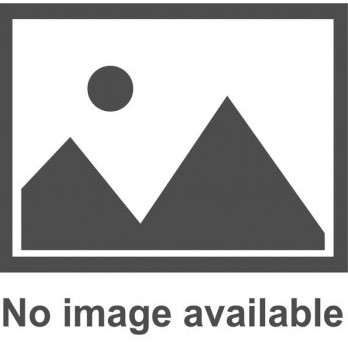
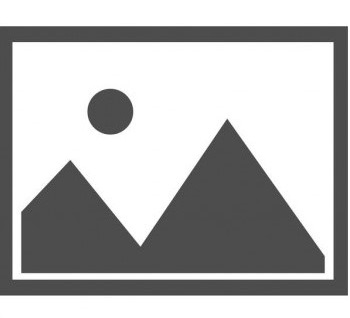
whitespace slettet + rettet i styling af billeder

diff --git a/public/admin-views/frontpage/frontpage.js b/public/admin-views/frontpage/frontpage.js
@@ -34,17 +34,8 @@ function createJewelryView(jewelry){
     ${escapeHTML(jewelry.image_path) 
         ? `<img class="image" alt="${escapeHTML(jewelry.name)}" src="/assets/images/jewelry/${escapeHTML(jewelry.image_path)}">`
         : `<img class="image" alt="default_jewelry_image" src="/assets/images/default_jewelry.jpg">`
-
-    
-    
-    
     }
 
-        
-
-    
-    
-    
     <p class="name">${escapeHTML(jewelry.name)}</p>
     <p class="price"> ${escapeHTML(jewelry.price.toString(10))} dkk</p>
     <p class="stock"> ${escapeHTML(jewelry.stock.toString(10))}</p>
@@ -55,27 +46,6 @@ function createJewelryView(jewelry){
     `;
 
     jewelryWrapper.appendChild(jewelryDiv);
-
 }
 
-
-/*
-function createJewelryView(jewelry){
-    console.log(jewelry);
-
-    const jewelryDiv = document.createElement('div');
-    jewelryDiv.classList.add("col-xs-6", "col-sm-4", "jewelry-col");
-
-    jewelryDiv.innerHTML = `
-    <a class="jewelry-link" href="admin/jewelry/${escapeHTML(jewelry.id.toString(10))}">
-        <img class="jewelry-image" alt="${escapeHTML(jewelry.name)}" src="/assets/images/jewelry/${escapeHTML(jewelry.image_path)}">
-
-        <p class="name">${escapeHTML(jewelry.name)}<p>
-        <p class="price"> ${escapeHTML(jewelry.price.toString(10))} dkk</p>
-    </a>`;
-
-    jewelryWrapper.appendChild(jewelryDiv);
-
-}
-*/
 

diff --git a/public/views/jewelry/jewelry.js b/public/views/jewelry/jewelry.js
@@ -27,8 +27,12 @@ function createJewelryView(jewelry){
 
     jewelryDiv.innerHTML = `
     <a class="jewelry-link" href="/jewelry/${escapeHTML(jewelry.id.toString(10))}">
-        <img class="jewelry-image" alt="${escapeHTML(jewelry.name)}" src="/assets/images/jewelry/${escapeHTML(jewelry.image_path)}">
 
+        
+        ${escapeHTML(jewelry.image_path) 
+            ? `<img class="image" alt="${escapeHTML(jewelry.name)}" src="/assets/images/jewelry/${escapeHTML(jewelry.image_path)}">`
+            : `<img class="image" alt="default_jewelry_image" src="/assets/images/default_jewelry.jpg">`
+        }
         <p class="name">${escapeHTML(jewelry.name)}<p>
         <p class="price"> ${escapeHTML(jewelry.price.toString(10))} dkk</p>
     </a>`;

diff --git a/public/views/jewelry/jewelry.css b/public/views/jewelry/jewelry.css
@@ -1,6 +1,5 @@
-.jewelry-image {
-    width: 225px;
-    height: 225px;
+.image {
+    width: 60%;
 }
 
 
